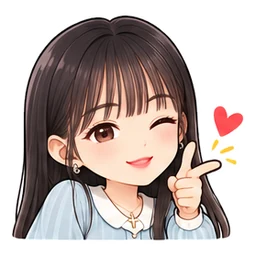
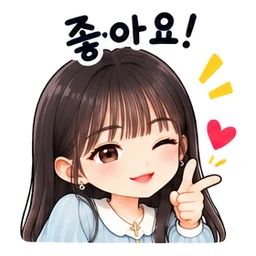
율리T 이모티콘을 글자가 적힌 새 판으로 바꿈
- 처음 판(글자 없음) 그림·이름은 폐기, 새 판을 잘라 public/stickers/yuli 를 바꿈
- 24가지 말은 판에 적힌 글 그대로, 새 말에 추천 말 추가

Claude-Session: https://claude.ai/code/session_01GbN1M7j97vtSonwbPRfmsY

diff --git a/lib/stickers.ts b/lib/stickers.ts
@@ -46,12 +46,12 @@ const CECILIA = [
   '아멘', '말씀', '하느님', '부탁해요', '미안해요', '수고했어요',
   '잘자요', '좋은아침', '좋은하루', '축하해요', 'ㅋㅋㅋ', '또봐요',
 ];
-// 율리T (운영자가 준 6칸×4줄 판, 글자가 없어 표정·몸짓을 보고 이름을 붙임 — 판 순서대로)
+// 율리T (운영자가 준 6칸×4줄 판에 적힌 글 그대로, 판 순서대로 — 처음 판(글자 없음)은 운영자 요청으로 바꿈)
 const YULI = [
-  '안녕하세요', '사랑해요', '기도합니다', '좋아해요', '신나요!', '최고예요!',
-  'ㅋㅋㅋ', '어머나!', '음...?', '흥!', '슬퍼요', '안아줄게요',
-  '잘자요', '부끄러워요', '말씀 묵상', '커피 한잔 해요', '평화를 빕니다', '화이팅!',
-  '또 만나요', '여기요!', '부탁해요', '열정 가득!', '아멘', '행복해요',
+  '안녕하세요!', '사랑합니다', '감사합니다', '좋아요!', '화이팅!', '최고예요!',
+  'ㅎㅎㅎㅎ', '어??', '음...', '흠!', '속상해요...', '사랑해요',
+  '잘자요', '부끄러워요', '열공중!', '쉬는중~', '기도할게요', '아멘!',
+  '죄송합니다', '와!', '걱정돼요...', '화나요!', '행복해요', '안녕히계세요~',
 ];
 const PACK_DEFS: { id: string; name: string; dir: string; labels: string[]; legacy?: string; access?: PackAccess; giftHandles?: string[] }[] = [
   {
@@ -134,18 +134,16 @@ export const giftablePacks = () => STICKER_PACKS.filter(p => !!p.access);
 // 글을 치면 비슷한 뜻의 이모티콘을 추천: 이모티콘 이름마다 떠올릴 만한 말 (띄어쓰기 없이 비교)
 const KEYWORDS: Record<string, string[]> = {
   // 율리T 새 말
-  '좋아해요': ['좋아해', '좋아한', '반했', '찜'],
-  '신나요!': ['신나', '신난', '신났', '야호', '앗싸', '룰루'],
-  '음...?': ['뭐지', '글쎄', '궁금', '흠', '모르겠'],
-  '흥!': ['흥', '삐졌', '삐짐', '칫', '치사', '서운'],
-  '안아줄게요': ['안아', '포옹', '토닥', '허그', '위로'],
+  'ㅎㅎㅎㅎ': ['ㅎㅎ', '히히', '헤헤', '하하', '웃겨'],
+  '흠!': ['흠', '흥', '삐졌', '칫', '서운', '치사'],
+  '속상해요...': ['속상', '서러', '섭섭', '우울'],
   '부끄러워요': ['부끄', '쑥스', '민망', '수줍'],
-  '말씀 묵상': ['말씀', '성경', '묵상', '필사'],
-  '커피 한잔 해요': ['커피', '차한잔', '티타임', '카페', '라떼'],
-  '또 만나요': ['또만나', '또봐', '다음에봐', '안녕히', '바이', 'bye'],
-  '여기요!': ['여기요', '저기요', '여보세요', '들어봐', '주목'],
-  '열정 가득!': ['열정', '불타', '열심히', '해보자', '할수있'],
-  '행복해요': ['행복', '기분좋', '즐거', '브이'],
+  '열공중!': ['열공', '공부', '성경', '말씀', '필사', '숙제'],
+  '쉬는중~': ['쉬는', '쉬어', '휴식', '커피', '차한잔', '티타임'],
+  '걱정돼요...': ['걱정', '불안', '괜찮아', '어떡해', '어떻게해'],
+  '화나요!': ['화나', '화났', '짜증', '열받'],
+  '행복해요': ['행복', '기분좋', '즐거'],
+  '안녕히계세요~': ['안녕히', '또만나', '또봐', '다음에봐', '바이', 'bye'],
   '안녕!': ['안녕', '하이', '반가', '방가', 'hi', 'hello'],
   '좋은 아침!': ['좋은아침', '굿모닝', '아침', '일어났', '기상'],
   '평안한 밤': ['잘자', '굿나잇', '좋은밤', '평안한밤', '자러', '잘게', '이만잘', '밤'],

diff --git a/CLAUDE.md b/CLAUDE.md
@@ -128,7 +128,7 @@
 - 영상 탭 새로고침·묶음 사진 저장 (운영자): ① 영상 탭에서 아래 영상 아이콘을 한 번 더 누르면 첫 영상(가장 최근)으로 올라가며 영상 목록을 새로 불러옴(`refreshReels`, `reelsListRef`, 위 가운데 '새 영상 불러오는 중…') — 예전엔 영상 탭에서는 다시 눌러도·당겨도 새로 고침이 없었음 ② 대화의 묶음 사진(4장) 저장이 1장만 되던 문제: 크롬(안드로이드·컴퓨터)은 한 번 누를 때 파일 하나만 내려받고 나머지는 '여러 파일 다운로드 허용'을 묻거나 막음(예전엔 0.4초 간격으로 모두 내려받기) → `saveMedia`가 여러 장이면 첫 장만 바로 저장하고 저장 창(`components/SavePanel` `SavePanelHost`, layout 에 붙음, `lib/save-media` `openSavePanel`/`savePanelStore`): 사진마다 '저장'(누를 때마다 하나씩은 늘 허용)·'✓ 저장함', '남은 N장 한꺼번에 저장'(허용을 물으면 '허용' 안내), 다 되면 '모두 저장했어요'. 아이폰·아이패드는 예전처럼 공유 창에 여러 장. 크게 보기(`PhotoZoom saveable`)는 묶음이면 '이 사진 저장'·'N장 모두'·'공유'(예전엔 지금 보는 한 장만 저장, 묶음 전체를 미리 받아 둠)
 - 앱으로 돌아올 때 화면(운영자 요청: '바탕화면 아이콘으로 열면 홈부터, 뒤에 켜져 있을 때는 쓰던 화면 그대로'): 휴대폰은 아이콘으로 다시 열었는지·최근 앱 목록으로 돌아왔는지 앱에 알려 주지 않아서 시간으로 나눔 — `RESUME_HOME_AFTER`(30분): 30분 안에 돌아오면 보던 화면 그대로(예전 #285 는 3초만 지나도 메인으로 감), 30분 넘게 떠나 있었으면 메인(`backToMain`, 예외는 그대로: 알림을 눌러 옴·앱이 스스로 밖에 다녀옴·쓰던 글). 숨은 때를 `localStorage appHiddenAt`에 적어(다시 보이면 지움) 뒤에 있는 동안 휴대폰이 앱을 정리했다 다시 띄워도(새로고침) 30분 안이면 마지막 화면 복원(`sameSession`), 넘으면 홈. 앱을 완전히 닫았다 열면 예전처럼 홈. 30분 안에 돌아왔을 때 새 버전이 있으면 저절로 새로고침하지 않고 '새로 고침' 띠만(보던 화면 지키기). 앱 아이콘 숫자(떠 있는 알림)가 있으면 그 알림 화면으로 가는 것(`openShownNotification`)은 그대로
 - 게시물 음악 '가톨릭그램 음악'(운영자 요청: 저작권 없는 기본 음악을 다 빼고 운영자가 준 두 곡을 넣음): `lib/music.ts` `BUILTIN_BGM` = 잔잔한 피아노(`public/bgm/calm-piano.mp3`, 3분 14초)·새로운 시작(`public/bgm/new-beginning.mp3`, 59초) — 운영자가 Suno 로 만든 mp3 를 다시 압축하지 않고 꼬리표만 지움(Suno 사용자 이름이 들어 있었음, `ffmpeg -c copy -map_metadata -1`), 만든 사람 표시 '가톨릭그램'. 예전 기본 30곡은 `RETIRED_BGM`(`active: false`, 파일도 그대로)으로 옮겨 고르기 목록(`MusicPicker tracks` 는 `active !== false`만)에서는 빠지고 그 곡을 쓴 예전 게시물은 그대로 나옴. 음악 고르기 탭 이름 '저작권 걱정 없는 음악' → '가톨릭그램 음악'. 관리자가 배경음악 관리로 올린 곡(`bgm_tracks`)은 예전처럼 그 위에 보임
-- 율리T 전용 이모티콘(운영자 요청): 팩 `yuli`(이름 '율리T', `public/stickers/yuli/01~24.webp`), 판(6칸×4줄)에 글자가 없어 표정·몸짓을 보고 판 순서대로 이름을 붙임 `YULI`(안녕하세요·사랑해요·기도합니다·좋아해요·신나요!·최고예요!·ㅋㅋㅋ·어머나!·음...?·흥!·슬퍼요·안아줄게요·잘자요·부끄러워요·말씀 묵상·커피 한잔 해요·평화를 빕니다·화이팅!·또 만나요·여기요!·부탁해요·열정 가득!·아멘·행복해요, 새 말은 `KEYWORDS`에 추천 말 추가). `access: 'gift'`, `giftHandles: []` → 관리자가 프로필 카드·사연함 '🎁'로 선물(`sticker-gifts.sql` 필요). 판 자르기는 귀여운세실리아와 같은 `scratchpad/cut/slice9.py`(가로 칸 사이는 흰 줄, 세로는 머리카락·손이 맞닿아 굽은 길) + 8번 '!!'가 9번으로 넘어가 `comp:478,333,533,410=8`로 주인 정함
+- 율리T 전용 이모티콘(운영자 요청, 처음 판(글자 없음)을 같은 날 글자가 적힌 판으로 바꿈 — 예전 그림·이름은 폐기): 팩 `yuli`(이름 '율리T', `public/stickers/yuli/01~24.webp`), 24가지 말은 판에 적힌 글 그대로 판 순서(6칸×4줄) `YULI`(안녕하세요!·사랑합니다·감사합니다·좋아요!·화이팅!·최고예요!·ㅎㅎㅎㅎ·어??·음...·흠!·속상해요...·사랑해요·잘자요·부끄러워요·열공중!·쉬는중~·기도할게요·아멘!·죄송합니다·와!·걱정돼요...·화나요!·행복해요·안녕히계세요~, '…'는 '...'로, 새 말은 `KEYWORDS`에 추천 말 추가). `access: 'gift'`, `giftHandles: []` → 관리자가 프로필 카드·사연함 '🎁'로 선물(`sticker-gifts.sql` 필요). 판 자르기 `scratchpad/cut/slice9.py`(가로 칸 사이는 흰 줄, 세로는 머리카락·손이 맞닿아 굽은 길, 손으로 고칠 곳 없었음)
 ## Android 앱 (Google Play) 진행 상황
 - 패키지 `com.catholicgram.android` (PWABuilder TWA). 예전 초안 앱 `com.catholicgram.app`은 쓰지 않음
 - 2026-10-27: 비공개 테스트(Alpha) 1 (1.0.0.0) + 대한민국 + 테스터 이메일 목록 '테스터'(12명)로 **검토 제출함**. Play Console 아동 안전 표준 선언 URL은 `https://catholicgram-dey7.vercel.app/child-safety`
